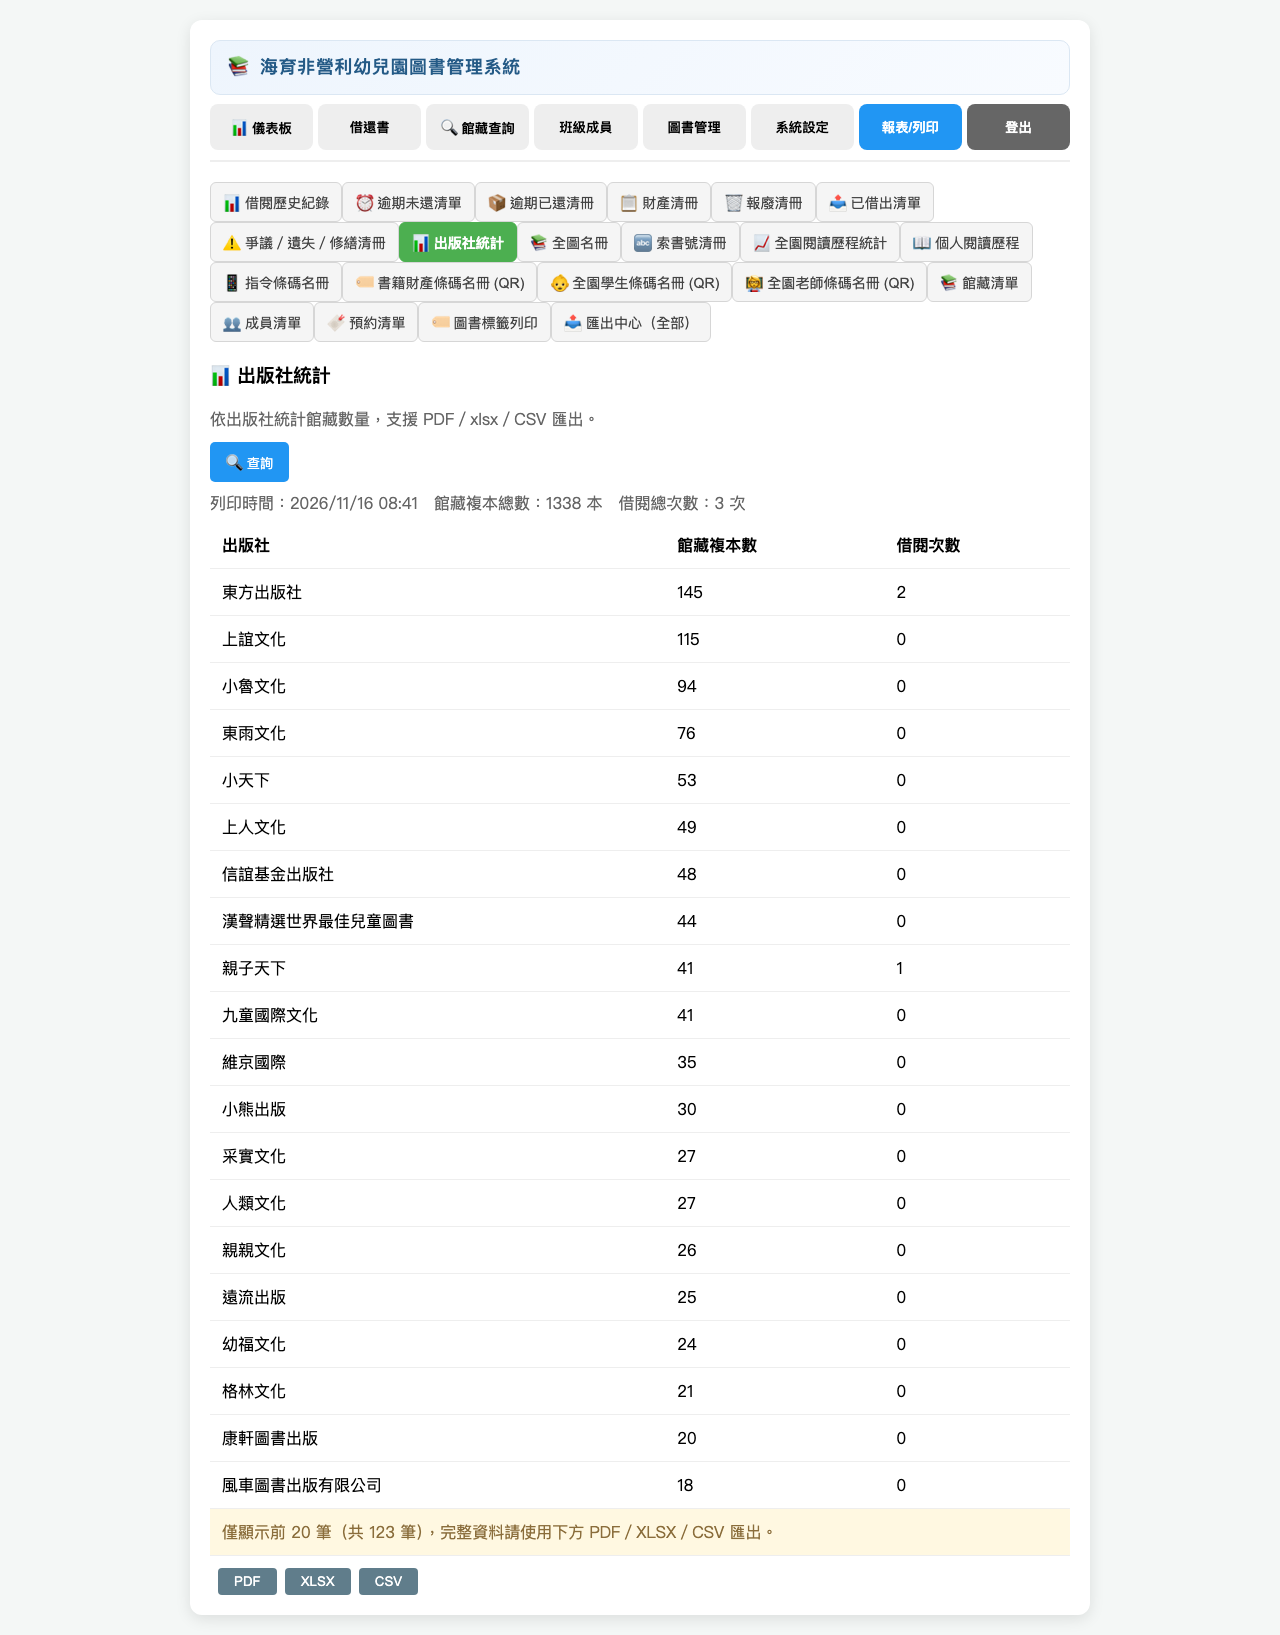
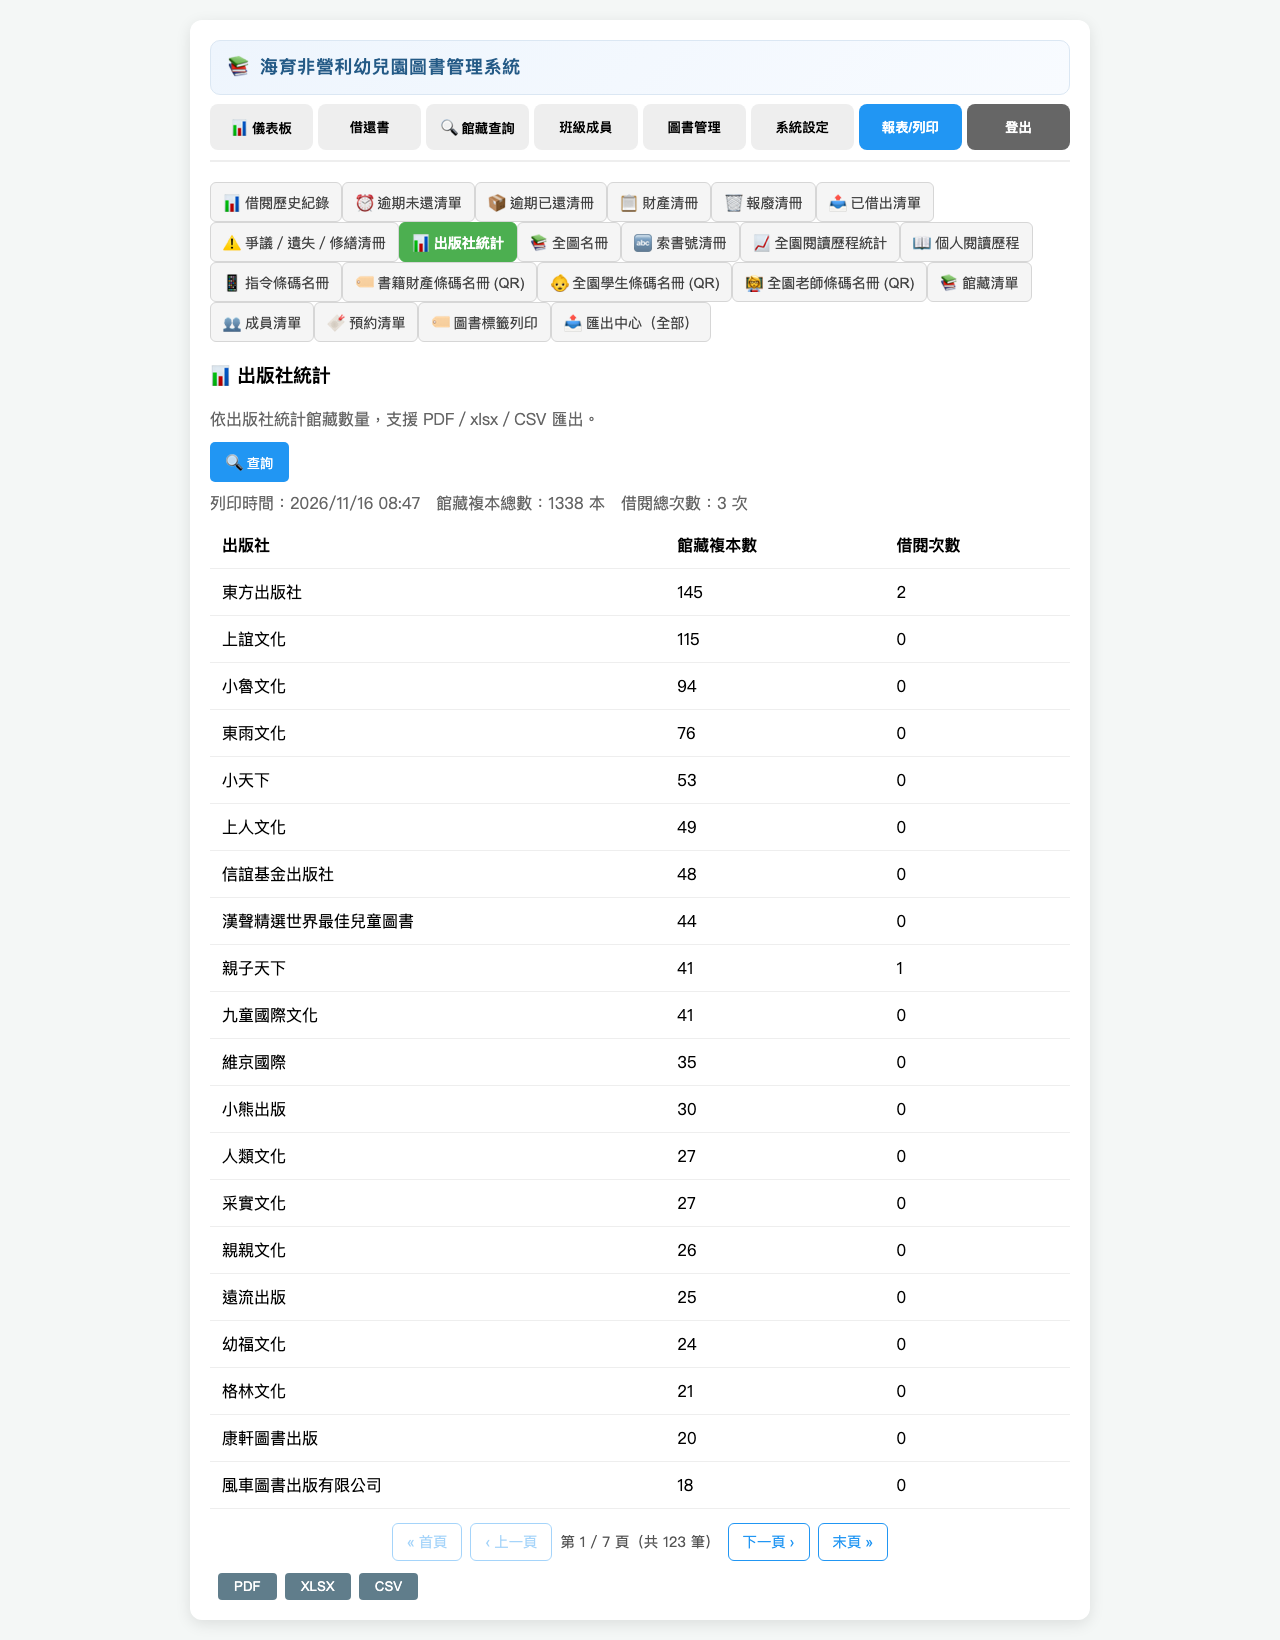
feat: 報表螢幕預覽加入首頁/上一頁/下一頁/末頁分頁

diff --git a/index.html b/index.html
@@ -742,6 +742,7 @@
                 <thead id="overdueTableHead"><tr><th>書名</th><th>借閱人</th><th>應還日期</th><th>逾期天數</th></tr></thead>
                 <tbody id="overdueTableBody"></tbody>
             </table>
+            <div id="overduePager" class="no-print" style="margin-top:8px;"></div>
         </div>
 
         <div id="inventoryReportSection" style="margin-top:20px;">
@@ -765,6 +766,7 @@
                 <thead id="inventoryPreviewHead"></thead>
                 <tbody id="inventoryPreviewBody"></tbody>
             </table>
+            <div id="inventoryPreviewPager" class="no-print" style="margin-top:8px;"></div>
         </div>
 
 
@@ -808,6 +810,7 @@
                 <thead id="reportGenericHead"></thead>
                 <tbody id="reportGenericBody"></tbody>
             </table>
+            <div id="reportGenericPager" class="no-print" style="margin-top:8px;"></div>
             <div class="no-print" style="display:flex; gap:8px; flex-wrap:wrap; align-items:center; margin-top:12px;">
                 <span id="reportGenericLead" style="color:#555; font-size:0.9rem;"></span>
                 <div id="reportGenericButtons" style="display:flex; gap:8px; flex-wrap:wrap;"></div>
@@ -1850,39 +1853,19 @@
 
     async function loadOverdueReport() {
         const tbody = document.getElementById('overdueTableBody');
-        const head = document.getElementById('overdueTableHead');
-        const returned = activeReportTab === 'overdueReturned';
         const table = document.getElementById('overdueTable');
+        const returned = activeReportTab === 'overdueReturned';
         if (table) table.style.display = 'table';
-        const loadingCols = returned ? 5 : 4;
-        tbody.innerHTML = `<tr><td colspan="${loadingCols}" style="color:#666;">載入中…</td></tr>`;
+        tbody.innerHTML = '<tr><td colspan="6" style="color:#666;">載入中…</td></tr>';
         try {
-            if (returned) {
-                // 逾期已還清冊：與 PDF／xlsx／CSV 相同的查詢範圍，於畫面預覽。
-                const data = await api('GET', jsonPreviewUrl('overdueReturned'));
-                const cols = data.columns || [];
-                if (head) head.innerHTML = '<tr>' + cols.map(c => `<th>${escapeHtml(String(c))}</th>`).join('') + '</tr>';
-                const rows = data.rows || [];
-                const shown = rows.slice(0, PREVIEW_ROW_LIMIT);
-                const colSpan = Math.max(1, cols.length);
-                let html = shown.length
-                    ? shown.map(r => '<tr>' + cols.map((_, i) => `<td>${escapeHtml(r[i] == null ? '' : String(r[i]))}</td>`).join('') + '</tr>').join('')
-                    : `<tr><td colspan="${colSpan}" style="color:#666;">查無資料</td></tr>`;
-                if (rows.length > PREVIEW_ROW_LIMIT) {
-                    html += `<tr><td colspan="${colSpan}" style="color:#8a6d3b; background:#fff8e1;">僅顯示前 ${PREVIEW_ROW_LIMIT} 筆（共 ${rows.length} 筆），完整資料請使用下方 PDF／XLSX／CSV 匯出。</td></tr>`;
-                }
-                tbody.innerHTML = html;
-                return;
-            }
-            if (head) head.innerHTML = '<tr><th>書名</th><th>借閱人</th><th>應還日期</th><th>逾期天數</th></tr>';
-            const qs = overdueFilterParams();
-            const s = qs.toString();
-            const data = await api('GET', '/api/report/overdue' + (s ? '?' + s : ''));
-            const list = data.overdue || [];
-            tbody.innerHTML = list.length
-                ? list.map(b => `<tr><td>${escapeHtml(b.title)}</td><td>${escapeHtml(b.loanedTo || '')}</td><td>${escapeHtml(b.dueAt || '')}</td><td>${escapeHtml(String(b.daysOverdue ?? ''))}</td></tr>`).join('')
-                : '<tr><td colspan="4" style="color:#666;">無逾期清單</td></tr>';
-        } catch (err) { tbody.innerHTML = `<tr><td colspan="${loadingCols}" style="color:#c62828;">載入失敗：${escapeHtml(err.message)}</td></tr>`; }
+            // 逾期未還與逾期已還皆使用與匯出檔相同的查詢範圍，於畫面分頁預覽。
+            const data = await api('GET', jsonPreviewUrl(returned ? 'overdueReturned' : 'overdue'));
+            renderPreviewTable('overdue', data, 1);
+        } catch (err) {
+            const pager = document.getElementById('overduePager');
+            if (pager) { pager.innerHTML = ''; pager.style.display = 'none'; }
+            tbody.innerHTML = `<tr><td colspan="6" style="color:#c62828;">載入失敗：${escapeHtml(err.message)}</td></tr>`;
+        }
     }
 
     const EXPORT_REPORTS = [
@@ -1974,9 +1957,11 @@
         const desc = document.getElementById('reportGenericDesc');
         const lead = document.getElementById('reportGenericLead');
         const buttons = document.getElementById('reportGenericButtons');
+        const hasRows = document.getElementById('reportGenericBody').children.length > 0;
         showReportEl('reportGenericQueryRow', !detailed, 'flex');
         showReportEl('reportGenericSummary', !detailed, 'block');
-        showReportEl('reportGenericTable', !detailed && document.getElementById('reportGenericBody').children.length > 0, 'table');
+        showReportEl('reportGenericTable', !detailed && hasRows, 'table');
+        showReportEl('reportGenericPager', !detailed && hasRows, 'block');
         if (detailed) {
             title.style.display = 'none';
             desc.style.display = 'none';
@@ -2018,64 +2003,107 @@
         return '';
     }
 
-    // 通用預覽表格：prefix 對應 reportGeneric / inventoryPreview 兩組元素。
-    const PREVIEW_ROW_LIMIT = 20; // 螢幕預覽最多顯示 20 筆，完整資料請匯出。
+    // 通用預覽表格：每頁 20 筆，分頁模式比照「借閱歷史紀錄」。
+    const PREVIEW_PAGE_SIZE = 20;
 
-    function renderPreviewTable(prefix, data) {
-        const head = document.getElementById(prefix + 'Head');
-        const body = document.getElementById(prefix + 'Body');
-        const table = document.getElementById(prefix + 'Table');
-        const summary = document.getElementById(prefix + 'Summary');
+    const PREVIEW_TARGETS = {
+        reportGeneric: {
+            head: 'reportGenericHead', body: 'reportGenericBody',
+            table: 'reportGenericTable', summary: 'reportGenericSummary',
+            pager: 'reportGenericPager',
+        },
+        inventoryPreview: {
+            head: 'inventoryPreviewHead', body: 'inventoryPreviewBody',
+            table: 'inventoryPreviewTable', summary: 'inventoryPreviewSummary',
+            pager: 'inventoryPreviewPager',
+        },
+        overdue: {
+            head: 'overdueTableHead', body: 'overdueTableBody',
+            table: 'overdueTable', summary: null, pager: 'overduePager',
+        },
+    };
+
+    const previewState = {};
+
+    function previewFlatRows(data) {
+        const flat = [];
+        if (Array.isArray(data.groups) && data.groups.length) {
+            data.groups.forEach(g => {
+                const rows = g.rows || [];
+                rows.forEach(r => flat.push({ row: r, group: g.title || '', groupTotal: rows.length }));
+            });
+        } else {
+            (data.rows || []).forEach(r => flat.push({ row: r, group: null }));
+        }
+        return flat;
+    }
+
+    function previewPagerHtml(prefix, total, page, pages) {
+        const go = (p, label, disabled) =>
+            `<button onclick="gotoPreviewPage('${prefix}', ${p})" ${disabled ? 'disabled' : ''}>${label}</button>`;
+        return '<div class="pager">'
+            + go(1, '« 首頁', page === 1)
+            + go(page - 1, '‹ 上一頁', page === 1)
+            + `<span>第 ${page} / ${pages} 頁（共 ${total.toLocaleString()} 筆）</span>`
+            + go(page + 1, '下一頁 ›', page === pages)
+            + go(pages, '末頁 »', page === pages)
+            + '</div>';
+    }
+
+    function renderPreviewTable(prefix, data, page) {
+        const target = PREVIEW_TARGETS[prefix];
+        if (!target) return;
+        const head = document.getElementById(target.head);
+        const body = document.getElementById(target.body);
+        const table = document.getElementById(target.table);
+        const summary = target.summary ? document.getElementById(target.summary) : null;
+        const pager = document.getElementById(target.pager);
         if (!head || !body) return;
         const columns = data.columns || [];
         const colSpan = Math.max(1, columns.length);
+        const flat = previewFlatRows(data);
+        const total = flat.length;
+        const pages = Math.max(1, Math.ceil(total / PREVIEW_PAGE_SIZE));
+        const current = Math.min(Math.max(1, page || 1), pages);
+        previewState[prefix] = { data, page: current };
+
         head.innerHTML = '<tr>' + columns.map(c => '<th>' + escapeHtml(String(c)) + '</th>').join('') + '</tr>';
-        const blankRow = (text) => '<tr><td colspan="' + colSpan + '" style="color:#666;">' + text + '</td></tr>';
         const dataRow = (r) => '<tr>' + columns.map((_, i) => '<td>' + escapeHtml(r[i] == null ? '' : String(r[i])) + '</td>').join('') + '</tr>';
-        const allRows = Array.isArray(data.groups) && data.groups.length
-            ? data.groups.reduce((n, g) => n + (g.rows || []).length, 0)
-            : (data.rows || []).length;
-        const total = Number.isFinite(data.total) ? data.total : allRows;
         let html = '';
-        let shown = 0;
-        if (Array.isArray(data.groups) && data.groups.length) {
-            for (const g of data.groups) {
-                if (shown >= PREVIEW_ROW_LIMIT) break;
-                const rows = g.rows || [];
+        let lastGroup = null;
+        const start = (current - 1) * PREVIEW_PAGE_SIZE;
+        flat.slice(start, start + PREVIEW_PAGE_SIZE).forEach(item => {
+            if (item.group !== null && item.group !== lastGroup) {
                 html += '<tr class="preview-group-row"><td colspan="' + colSpan + '" style="font-weight:bold; background:#f3f6f8;">'
-                    + escapeHtml(g.title || '') + '（' + rows.length + ' 筆）</td></tr>';
-                if (!rows.length) {
-                    html += blankRow('（本組無資料）');
-                    continue;
-                }
-                for (const r of rows) {
-                    if (shown >= PREVIEW_ROW_LIMIT) break;
-                    html += dataRow(r);
-                    shown += 1;
-                }
+                    + escapeHtml(item.group) + '（' + item.groupTotal + ' 筆）</td></tr>';
+                lastGroup = item.group;
             }
-        } else {
-            const rows = data.rows || [];
-            if (!rows.length) {
-                html = blankRow('查無資料');
-            } else {
-                for (const r of rows) {
-                    if (shown >= PREVIEW_ROW_LIMIT) break;
-                    html += dataRow(r);
-                    shown += 1;
-                }
-            }
-        }
-        if (total > PREVIEW_ROW_LIMIT) {
-            html += '<tr><td colspan="' + colSpan + '" style="color:#8a6d3b; background:#fff8e1;">'
-                + '僅顯示前 ' + PREVIEW_ROW_LIMIT + ' 筆（共 ' + total + ' 筆），完整資料請使用下方 PDF／XLSX／CSV 匯出。'
-                + '</td></tr>';
+            html += dataRow(item.row);
+        });
+        if (!html) {
+            html = '<tr><td colspan="' + colSpan + '" style="color:#666;">查無資料</td></tr>';
         }
         body.innerHTML = html;
+
         if (summary) {
             summary.textContent = (data.meta || []).join('　') || ('共 ' + total + ' 筆');
         }
         if (table) table.style.display = 'table';
+        if (pager) {
+            pager.innerHTML = total ? previewPagerHtml(prefix, total, current, pages) : '';
+            pager.style.display = total ? 'block' : 'none';
+        }
+    }
+
+    function gotoPreviewPage(prefix, page) {
+        const state = previewState[prefix];
+        if (!state) return;
+        renderPreviewTable(prefix, state.data, page);
+        const target = PREVIEW_TARGETS[prefix];
+        const table = target ? document.getElementById(target.table) : null;
+        if (table && table.getBoundingClientRect().top < 0) {
+            table.scrollIntoView({ behavior: 'smooth', block: 'start' });
+        }
     }
 
     async function runReportPreview() {
@@ -2084,12 +2112,15 @@
         if (!url) return;
         const summary = document.getElementById('reportGenericSummary');
         const table = document.getElementById('reportGenericTable');
+        const pager = document.getElementById('reportGenericPager');
         if (summary) summary.textContent = '查詢中…';
         if (table) table.style.display = 'none';
+        if (pager) { pager.innerHTML = ''; pager.style.display = 'none'; }
         try {
             const data = await api('GET', url);
-            renderPreviewTable('reportGeneric', data);
+            renderPreviewTable('reportGeneric', data, 1);
         } catch (err) {
+            delete previewState['reportGeneric'];
             if (table) table.style.display = 'none';
             if (summary) summary.innerHTML = '<span style="color:#c62828;">查詢失敗：' + escapeHtml(err.message) + '</span>';
         }
@@ -2101,12 +2132,15 @@
         const url = jsonPreviewUrl(key);
         const summary = document.getElementById('inventoryPreviewSummary');
         const table = document.getElementById('inventoryPreviewTable');
+        const pager = document.getElementById('inventoryPreviewPager');
         if (summary) summary.textContent = '查詢中…';
         if (table) table.style.display = 'none';
+        if (pager) { pager.innerHTML = ''; pager.style.display = 'none'; }
         try {
             const data = await api('GET', url);
-            renderPreviewTable('inventoryPreview', data);
+            renderPreviewTable('inventoryPreview', data, 1);
         } catch (err) {
+            delete previewState['inventoryPreview'];
             if (table) table.style.display = 'none';
             if (summary) summary.innerHTML = '<span style="color:#c62828;">查詢失敗：' + escapeHtml(err.message) + '</span>';
         }
@@ -2155,6 +2189,9 @@
         if (gBody) gBody.innerHTML = '';
         const gSummary = document.getElementById('reportGenericSummary');
         if (gSummary) gSummary.textContent = '';
+        const gPager = document.getElementById('reportGenericPager');
+        if (gPager) { gPager.innerHTML = ''; gPager.style.display = 'none'; }
+        delete previewState['reportGeneric'];
         if (tab.exportLabel && tab.key !== 'log') {
             renderReportGenericExport(tab.exportLabel, !!tab.section);
         }

diff --git a/docs/操作手冊.md b/docs/操作手冊.md
@@ -346,7 +346,7 @@ admin／root 角色與共用管理員不受勾選影響，一律全權限。
 
 「報表／列印」頁最上方為**報表頁籤**，頁籤名稱與匯出中心的清單／報表名稱一致。點選頁籤時只會顯示該報表的內容，不再同時堆疊所有區塊。
 
-所有報表頁籤皆提供螢幕查詢：進入頁籤後會自動載入預覽，或按「🔍 查詢」重新載入；PDF／xlsx／CSV 匯出按鍵位於查詢結果下方，匯出時沿用目前查詢範圍（班級、日期、學年、關鍵字等），因此畫面看到的資料與匯出內容一致。螢幕預覽最多顯示 **20 筆**，超過時會顯示提示列，完整資料請使用下方匯出按鍵。
+所有報表頁籤皆提供螢幕查詢：進入頁籤後會自動載入預覽，或按「🔍 查詢」重新載入。查詢結果每頁顯示 **20 筆**，表格下方提供「« 首頁／‹ 上一頁／下一頁 ›／末頁 »」分頁按鍵與頁碼（格式與「📊 借閱歷史紀錄」相同）；PDF／xlsx／CSV 匯出按鍵位於分頁下方，匯出時沿用目前查詢範圍（班級、日期、學年、關鍵字等），因此畫面看到的資料與匯出內容一致。
 
 各頁籤操作方式：
 - 📊 借閱歷史紀錄：設定老師／年度／學年／日期後按「🔍 查詢」；查詢結果表格下方另有 **PDF／xlsx／CSV** 三個按鍵，可直接匯出目前篩選條件的紀錄。

diff --git a/docs/修訂紀錄.md b/docs/修訂紀錄.md
@@ -529,3 +529,8 @@
 - 所有報表頁籤的螢幕查詢結果最多顯示 20 筆，超過時於表格下方顯示「僅顯示前 20 筆（共 N 筆），完整資料請匯出」提示。
 - PDF／XLSX／CSV 匯出按鍵由查詢按鍵旁移至查詢結果表格下方，方便確認資料後直接匯出。
 - 逾期已還清冊的螢幕預覽同步套用 20 筆上限。
+
+### 報表螢幕預覽加入分頁（2026/11/16）
+- 所有報表頁籤的螢幕查詢結果改為每頁 20 筆，表格下方提供「« 首頁／‹ 上一頁／下一頁 ›／末頁 »」按鍵與「第 X / Y 頁（共 N 筆）」頁碼，顯示模式比照「📊 借閱歷史紀錄」。
+- 逾期未還清單與逾期已還清冊也改用相同分頁模式；全圖名冊／館藏清單跨頁時會重複顯示所屬來源標題列。
+- PDF／XLSX／CSV 匯出按鍵維持在分頁下方。
